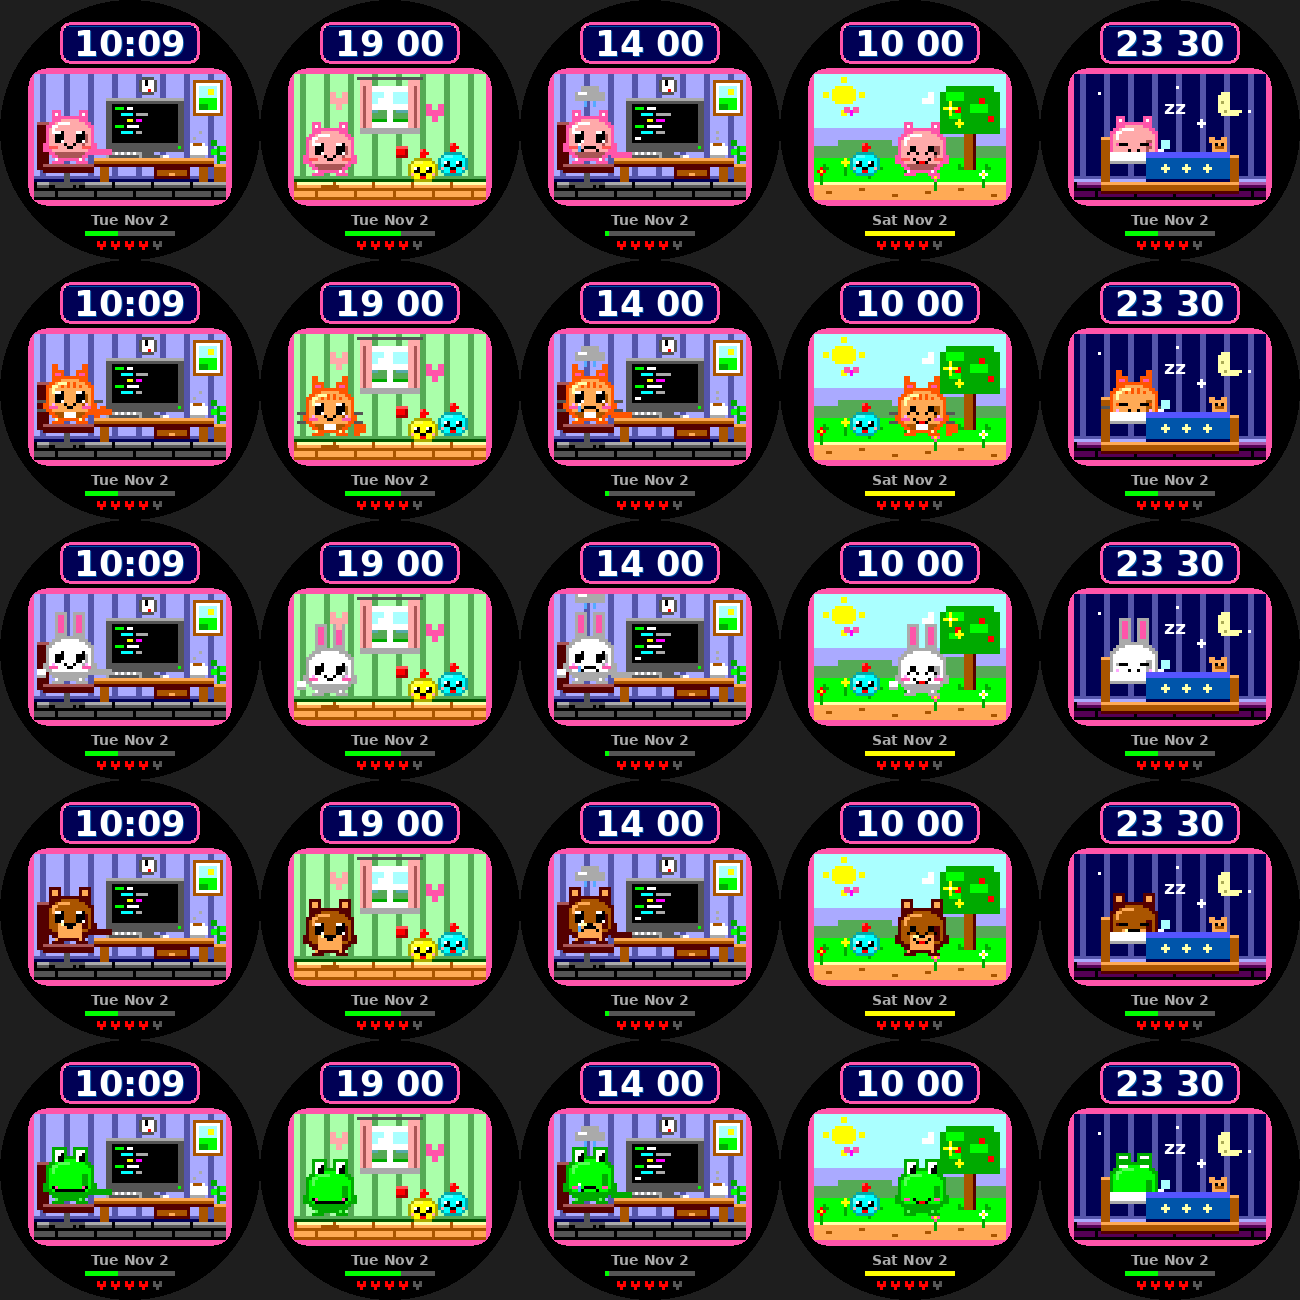
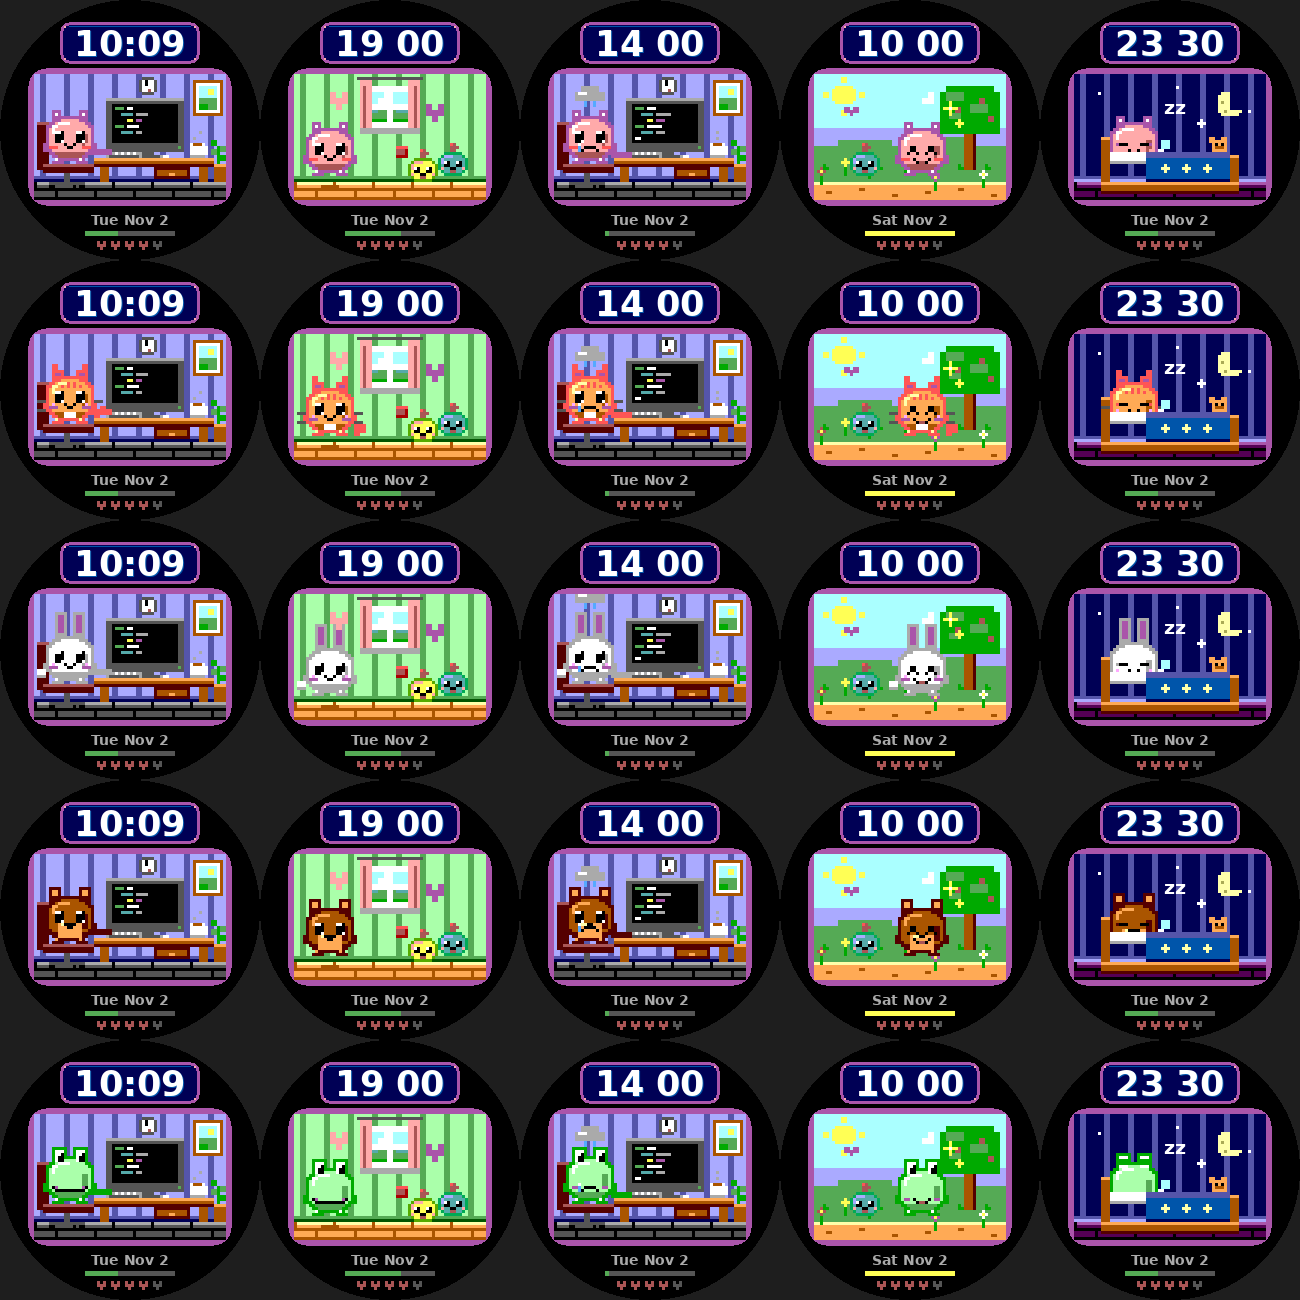
Mute the palette via a central colour map; fix preview colours to match the SDK; recolour frog and deep one
Claude-Session: https://claude.ai/code/session_011ky8cAnUXaEurYwVogiPNe

diff --git a/desk-pet/src/c/main.c b/desk-pet/src/c/main.c
@@ -41,6 +41,22 @@ static bool s_in_focus = true;   // false while a notification/menu covers the f
 static char s_time_buf[8];
 static char s_date_buf[16];
 
+// ---------------------------------------------------------------- palette
+// Every colour goes through MUTE[] so the whole palette is softened in one
+// place (generated by tools/gen_palette.py; Pebble colours are 6-bit 0b11RRGGBB).
+static const uint8_t MUTE[64] = {
+  0x00, 0x01, 0x12, 0x16, 0x04, 0x05, 0x06, 0x16, 0x08, 0x15, 0x09, 0x1A, 0x19, 0x19, 0x1A, 0x1A,
+  0x10, 0x11, 0x12, 0x16, 0x14, 0x15, 0x16, 0x27, 0x15, 0x19, 0x1A, 0x1B, 0x19, 0x2A, 0x2A, 0x2B,
+  0x20, 0x21, 0x22, 0x26, 0x24, 0x25, 0x26, 0x27, 0x18, 0x29, 0x2A, 0x2B, 0x29, 0x2A, 0x2E, 0x2F,
+  0x25, 0x25, 0x26, 0x26, 0x35, 0x35, 0x36, 0x26, 0x39, 0x39, 0x3A, 0x3B, 0x3D, 0x3A, 0x3E, 0x3F,
+};
+
+static GColor mute_color(GColor c) {
+  return (GColor){.argb = (uint8_t)(0xC0 | MUTE[c.argb & 0x3F])};
+}
+static void set_fill(GContext *ctx, GColor c) { graphics_context_set_fill_color(ctx, mute_color(c)); }
+static void set_text(GContext *ctx, GColor c) { graphics_context_set_text_color(ctx, mute_color(c)); }
+
 // Drawing state for the scene currently being rendered.
 static GContext *g;
 static int U;    // screen pixels per scene pixel
@@ -78,7 +94,7 @@ static void fbox(GColor c, int x, int y, int w, int h) {
   if (x + w > FINE_W) w = FINE_W - x;
   if (y + h > FINE_H) h = FINE_H - y;
   if (w <= 0 || h <= 0) return;
-  graphics_context_set_fill_color(g, c);
+  set_fill(g, c);
   graphics_fill_rect(g, GRect(OX + x * U, OY + y * U, w * U, h * U), 0, GCornerNone);
 }
 
@@ -103,7 +119,7 @@ static void fheart(GColor c, int x, int y) {
 }
 
 static void txt(const char *s, const char *font_key, GColor c, int x, int y, int w, int h) {
-  graphics_context_set_text_color(g, c);
+  set_text(g, c);
   graphics_draw_text(g, s, fonts_get_system_font(font_key),
                      GRect(OX + x * 2 * U, OY + y * 2 * U, w * 2 * U, h * 2 * U),
                      GTextOverflowModeFill, GTextAlignmentLeft, NULL);
@@ -150,7 +166,7 @@ static void load_species(int id) {
       s_sp = (Species){GColorWindsorTan, GColorBulgarianRose, GColorMelon, GColorRajah, EARS_BEAR};
       break;
     case 4:  // frog: green with eye bumps and a wide grin
-      s_sp = (Species){GColorGreen, GColorIslamicGreen, GColorShockingPink, GColorGreen, EARS_FROG};
+      s_sp = (Species){GColorMintGreen, GColorIslamicGreen, GColorShockingPink, GColorMintGreen, EARS_FROG};
       break;
     case 5:  // baby Cthulhu: bat wings (snout colour) and a wiggly tentacle beard
       s_sp = (Species){GColorMayGreen, GColorIslamicGreen, GColorMelon, GColorIndigo, EARS_CTHULHU};
@@ -159,7 +175,7 @@ static void load_species(int id) {
       s_sp = (Species){GColorPurple, GColorIndigo, GColorMagenta, GColorPurple, EARS_SHOGGOTH};
       break;
     case 7:  // deep one: teal fish-person with a crest, gills and tail fin
-      s_sp = (Species){GColorTiffanyBlue, GColorCobaltBlue, GColorShockingPink, GColorTiffanyBlue, EARS_DEEP};
+      s_sp = (Species){GColorCadetBlue, GColorCobaltBlue, GColorShockingPink, GColorCadetBlue, EARS_DEEP};
       break;
     case 8:  // great eye: a floating eyeball on tentacles
       s_sp = (Species){GColorWhite, GColorIndigo, GColorRed, GColorWhite, EARS_EYE};
@@ -1193,7 +1209,7 @@ static void eldritch_quirk(Activity a) {
 }
 
 static void heart_raw(GContext *ctx, int x, int y, int u, GColor c) {
-  graphics_context_set_fill_color(ctx, c);
+  set_fill(ctx, c);
   graphics_fill_rect(ctx, GRect(x, y, u, u), 0, GCornerNone);
   graphics_fill_rect(ctx, GRect(x + 2 * u, y, u, u), 0, GCornerNone);
   graphics_fill_rect(ctx, GRect(x, y + u, 3 * u, u), 0, GCornerNone);
@@ -1204,23 +1220,23 @@ static void canvas_update(Layer *layer, GContext *ctx) {
   GRect b = layer_get_bounds(layer);
   int w = b.size.w, h = b.size.h;
 
-  graphics_context_set_fill_color(ctx, GColorBlack);
+  set_fill(ctx, GColorBlack);
   graphics_fill_rect(ctx, b, 0, GCornerNone);
 
   // time: a pink-framed navy "display" with rivets, a shadowed numeral and a blinking colon
   {
     int px_w = w / 260 ? w / 260 : 1;
     GRect panel = GRect(w * 60 / 260, h * 22 / 260, w * 140 / 260, h * 42 / 260);
-    graphics_context_set_fill_color(ctx, GColorShockingPink);
+    set_fill(ctx, GColorShockingPink);
     graphics_fill_rect(ctx, panel, 9 * px_w, GCornersAll);
-    graphics_context_set_fill_color(ctx, GColorOxfordBlue);
+    set_fill(ctx, GColorOxfordBlue);
     graphics_fill_rect(ctx, GRect(panel.origin.x + 3 * px_w, panel.origin.y + 3 * px_w,
                                   panel.size.w - 6 * px_w, panel.size.h - 6 * px_w),
                        6 * px_w, GCornersAll);
-    graphics_context_set_fill_color(ctx, GColorCobaltBlue);               // glassy top highlight
+    set_fill(ctx, GColorCobaltBlue);               // glassy top highlight
     graphics_fill_rect(ctx, GRect(panel.origin.x + 9 * px_w, panel.origin.y + 4 * px_w,
                                   panel.size.w - 18 * px_w, px_w), 0, GCornerNone);
-    graphics_context_set_fill_color(ctx, GColorMelon);                    // corner rivets
+    set_fill(ctx, GColorMelon);                    // corner rivets
     int rx0 = panel.origin.x + 4 * px_w, rx1 = panel.origin.x + panel.size.w - 6 * px_w;
     int ry0 = panel.origin.y + 4 * px_w, ry1 = panel.origin.y + panel.size.h - 6 * px_w;
     graphics_fill_rect(ctx, GRect(rx0, ry0, 2 * px_w, 2 * px_w), 0, GCornerNone);
@@ -1238,10 +1254,10 @@ static void canvas_update(Layer *layer, GContext *ctx) {
     }
     GFont tf = fonts_get_system_font(FONT_KEY_BITHAM_42_BOLD);
     GRect tr = GRect(0, h * 19 / 260, w, h * 52 / 260);
-    graphics_context_set_text_color(ctx, GColorCobaltBlue);               // drop shadow
+    set_text(ctx, GColorCobaltBlue);               // drop shadow
     graphics_draw_text(ctx, tb, tf, GRect(tr.origin.x + px_w, tr.origin.y + px_w, tr.size.w, tr.size.h),
                        GTextOverflowModeFill, GTextAlignmentCenter, NULL);
-    graphics_context_set_text_color(ctx, GColorWhite);
+    set_text(ctx, GColorWhite);
     graphics_draw_text(ctx, tb, tf, tr, GTextOverflowModeFill, GTextAlignmentCenter, NULL);
   }
 
@@ -1252,7 +1268,7 @@ static void canvas_update(Layer *layer, GContext *ctx) {
   OX = (w - FINE_W * U) / 2;
   OY = h * 74 / 260;
 
-  graphics_context_set_fill_color(ctx, GColorShockingPink);
+  set_fill(ctx, GColorShockingPink);
   graphics_fill_rect(ctx, GRect(OX - 2 * U, OY - 2 * U, (FINE_W + 4) * U, (FINE_H + 4) * U),
                      6 * U, GCornersAll);
 
@@ -1278,7 +1294,7 @@ static void canvas_update(Layer *layer, GContext *ctx) {
   eldritch_quirk(act);
 
   // date
-  graphics_context_set_text_color(ctx, GColorLightGray);
+  set_text(ctx, GColorLightGray);
   graphics_draw_text(ctx, s_date_buf, fonts_get_system_font(FONT_KEY_GOTHIC_18_BOLD),
                      GRect(0, h * 208 / 260, w, h * 22 / 260),
                      GTextOverflowModeFill, GTextAlignmentCenter, NULL);
@@ -1286,10 +1302,10 @@ static void canvas_update(Layer *layer, GContext *ctx) {
   // step meter: bar fills toward the daily goal, gold once reached
   int bw = w * 90 / 260, bh = h * 5 / 260;
   int bx = (w - bw) / 2, by = h * 231 / 260;
-  graphics_context_set_fill_color(ctx, GColorDarkGray);
+  set_fill(ctx, GColorDarkGray);
   graphics_fill_rect(ctx, GRect(bx, by, bw, bh), 0, GCornerNone);
   int fill = s_steps >= STEP_GOAL ? bw : bw * s_steps / STEP_GOAL;
-  graphics_context_set_fill_color(ctx, s_steps >= STEP_GOAL ? GColorYellow : GColorGreen);
+  set_fill(ctx, s_steps >= STEP_GOAL ? GColorYellow : GColorGreen);
   graphics_fill_rect(ctx, GRect(bx, by, fill, bh), 0, GCornerNone);
 
   // battery hearts (each heart = 20%)

diff --git a/desk-pet/tools/preview/pebble.h b/desk-pet/tools/preview/pebble.h
@@ -10,40 +10,70 @@
 
 typedef struct { uint8_t argb; } GColor;
 #define GC(r,g,b) ((GColor){(uint8_t)(0xC0 | ((r)<<4) | ((g)<<2) | (b))})
-#define GColorBlack GC(0,0,0)
-#define GColorWhite GC(3,3,3)
-#define GColorOrange GC(3,1,0)
-#define GColorWindsorTan GC(2,1,0)
-#define GColorMelon GC(3,2,2)
-#define GColorRed GC(3,0,0)
-#define GColorOxfordBlue GC(0,0,1)
-#define GColorImperialPurple GC(1,0,1)
-#define GColorPastelYellow GC(3,3,2)
-#define GColorCobaltBlue GC(0,1,2)
-#define GColorBlueMoon GC(1,1,3)
-#define GColorRajah GC(3,2,1)
-#define GColorCeleste GC(2,3,3)
-#define GColorYellow GC(3,3,0)
+#define GColorArmyGreen GC(1,1,0)
 #define GColorBabyBlueEyes GC(2,2,3)
-#define GColorDarkGray GC(1,1,1)
-#define GColorIslamicGreen GC(0,2,0)
+#define GColorBlack GC(0,0,0)
+#define GColorBlue GC(0,0,3)
+#define GColorBlueMoon GC(0,1,3)
+#define GColorBrass GC(2,2,1)
+#define GColorBrightGreen GC(1,3,0)
+#define GColorBrilliantRose GC(3,1,2)
 #define GColorBulgarianRose GC(1,0,0)
-#define GColorGreen GC(0,3,0)
-#define GColorCyan GC(0,3,3)
-#define GColorLightGray GC(2,2,2)
-#define GColorShockingPink GC(3,1,2)
+#define GColorCadetBlue GC(1,2,2)
+#define GColorCeleste GC(2,3,3)
 #define GColorChromeYellow GC(3,2,0)
-#define GColorMintGreen GC(2,3,2)
-#define GColorMagenta GC(3,0,3)
+#define GColorCobaltBlue GC(0,1,2)
+#define GColorCyan GC(0,3,3)
 #define GColorDarkCandyAppleRed GC(2,0,0)
-#define GColorPictonBlue GC(1,2,3)
-#define GColorMayGreen GC(1,2,1)
-#define GColorDukeBlue GC(0,0,2)
-#define GColorSunsetOrange GC(3,1,1)
+#define GColorDarkGray GC(1,1,1)
 #define GColorDarkGreen GC(0,1,0)
-#define GColorPurple GC(2,0,3)
+#define GColorDukeBlue GC(0,0,2)
+#define GColorElectricBlue GC(1,3,3)
+#define GColorElectricUltramarine GC(1,0,3)
+#define GColorFashionMagenta GC(3,0,2)
+#define GColorFolly GC(3,0,1)
+#define GColorGreen GC(0,3,0)
+#define GColorIcterine GC(3,3,1)
+#define GColorImperialPurple GC(1,0,1)
+#define GColorInchworm GC(2,3,1)
 #define GColorIndigo GC(1,0,2)
+#define GColorIslamicGreen GC(0,2,0)
+#define GColorJaegerGreen GC(0,2,1)
+#define GColorJazzberryJam GC(2,0,1)
+#define GColorKellyGreen GC(1,2,0)
+#define GColorLavenderIndigo GC(2,1,3)
+#define GColorLiberty GC(1,1,2)
+#define GColorLightGray GC(2,2,2)
+#define GColorLimerick GC(2,2,0)
+#define GColorMagenta GC(3,0,3)
+#define GColorMalachite GC(0,3,1)
+#define GColorMayGreen GC(1,2,1)
+#define GColorMediumAquamarine GC(1,3,2)
+#define GColorMediumSpringGreen GC(0,3,2)
+#define GColorMelon GC(3,2,2)
+#define GColorMidnightGreen GC(0,1,1)
+#define GColorMintGreen GC(2,3,2)
+#define GColorOrange GC(3,1,0)
+#define GColorOxfordBlue GC(0,0,1)
+#define GColorPastelYellow GC(3,3,2)
+#define GColorPictonBlue GC(1,2,3)
+#define GColorPurple GC(2,0,2)
+#define GColorPurpureus GC(2,1,2)
+#define GColorRajah GC(3,2,1)
+#define GColorRed GC(3,0,0)
+#define GColorRichBrilliantLavender GC(3,2,3)
+#define GColorRoseVale GC(2,1,1)
+#define GColorScreaminGreen GC(1,3,1)
+#define GColorShockingPink GC(3,1,3)
+#define GColorSpringBud GC(2,3,0)
+#define GColorSunsetOrange GC(3,1,1)
 #define GColorTiffanyBlue GC(0,2,2)
+#define GColorVeryLightBlue GC(1,1,3)
+#define GColorVividCerulean GC(0,2,3)
+#define GColorVividViolet GC(2,0,3)
+#define GColorWhite GC(3,3,3)
+#define GColorWindsorTan GC(2,1,0)
+#define GColorYellow GC(3,3,0)
 
 typedef struct { int x, y; } GPoint;
 typedef struct { int w, h; } GSize;

diff --git a/desk-pet/tools/gen_palette.py b/desk-pet/tools/gen_palette.py
@@ -1,0 +1,48 @@
+#!/usr/bin/env python3
+"""Generate the MUTE[] colour table embedded in src/c/main.c.
+
+Every colour the face draws goes through this map so the whole palette can be
+softened in one place. Pebble colours have only 4 levels per channel, so mild
+saturation tweaks just snap back; this lowers saturation by half while keeping
+brightness, then applies a few hand-picked overrides. Re-run after editing and
+paste the output over the MUTE table:  python3 tools/gen_palette.py
+"""
+import colorsys, re, sys
+
+HDR = "/root/.local/share/pebble-sdk/SDKs/4.33.1/sdk-core/pebble/gabbro/include/gcolor_definitions.h"
+SATURATION = 0.5
+OVERRIDES = {   # name -> name
+    "ShockingPink": "Purpureus",   # the loud magenta-pink frame/outline -> dusty mauve
+    "Orange": "SunsetOrange",      # cat outline / armchair -> coral
+    "Rajah": "Rajah",              # keep the cat's peach body
+    "Yellow": "Icterine",          # sun, lamps -> soft yellow instead of olive
+    "ChromeYellow": "Rajah",
+    "SunsetOrange": "SunsetOrange",
+    "DarkCandyAppleRed": "DarkCandyAppleRed",
+}
+
+txt = open(HDR).read()
+real = {m.group(1): int(m.group(2), 2)
+        for m in re.finditer(r"#define\s+GColor(\w+?)ARGB8\s+\(\(uint8_t\)0b([01]{8})\)", txt)}
+rgb = lambda a: ((a >> 4) & 3, (a >> 2) & 3, a & 3)
+pal = [(r, g, b) for r in range(4) for g in range(4) for b in range(4)]
+Y = lambda c: .3 * c[0] + .59 * c[1] + .11 * c[2]
+
+def mute(c):
+    h, l, s = colorsys.rgb_to_hls(*(x / 3 for x in c))
+    t = tuple(x * 255 for x in colorsys.hls_to_rgb(h, l, s * SATURATION))
+    def cost(p):
+        pp = tuple(x * 85 for x in p)
+        return sum((pp[i] - t[i]) ** 2 for i in range(3)) + 18 * (Y(pp) - Y(t)) ** 2
+    return min(pal, key=cost)
+
+table = {c: mute(c) for c in pal}
+for k, v in OVERRIDES.items():
+    table[rgb(real[k])] = rgb(real[v])
+
+enc = lambda c: (c[0] << 4) | (c[1] << 2) | c[2]
+vals = [enc(table[(r, g, b)]) for r in range(4) for g in range(4) for b in range(4)]
+print("static const uint8_t MUTE[64] = {")
+for i in range(0, 64, 16):
+    print("  " + ", ".join("0x%02X" % v for v in vals[i:i + 16]) + ",")
+print("};")

diff --git a/README.md b/README.md
@@ -19,7 +19,7 @@ A virtual-pet-style watchface where a little pet whose activity follows the time
 | 20:00 | Bedtime story: reading to the kids, who fall asleep at :30 | same |
 | 21:00 | Reading in bed | same |
 
-The time sits in a pink-framed navy display with rivets, a drop-shadowed numeral and a blinking colon. The scene is a 64x42 pixel grid (16x16 pet sprites with outlines, shading and glossy eyes; textured wallpaper and wood floors; beveled furniture; pet shadows). Battery is shown as 5 hearts. A green step bar fills toward 8,000 steps (gold when reached); the pet frowns and cries if you fall well behind pace after 11:00, and smiles once the goal is hit. All art is drawn with rectangles (no image assets).
+Colours are softened through one palette map (`tools/gen_palette.py`, applied to every draw call) and the preview tool takes its colours straight from the SDK header, so renders match the watch's real palette. The time sits in a mauve-framed navy display with rivets, a drop-shadowed numeral and a blinking colon. The scene is a 64x42 pixel grid (16x16 pet sprites with outlines, shading and glossy eyes; textured wallpaper and wood floors; beveled furniture; pet shadows). Battery is shown as 5 hearts. A green step bar fills toward 8,000 steps (gold when reached); the pet frowns and cries if you fall well behind pace after 11:00, and smiles once the goal is hit. All art is drawn with rectangles (no image assets).
 
 ### Build
 
